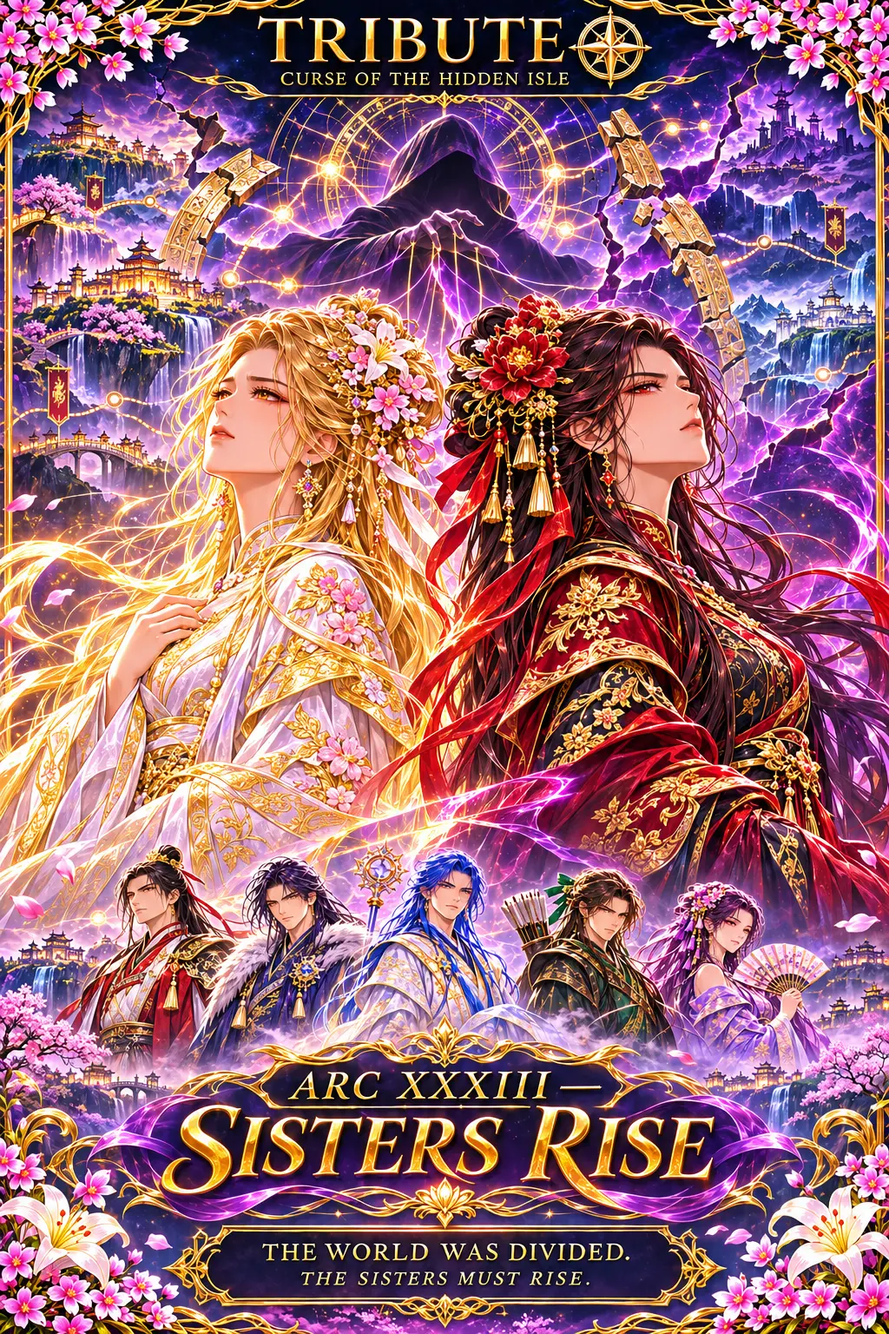
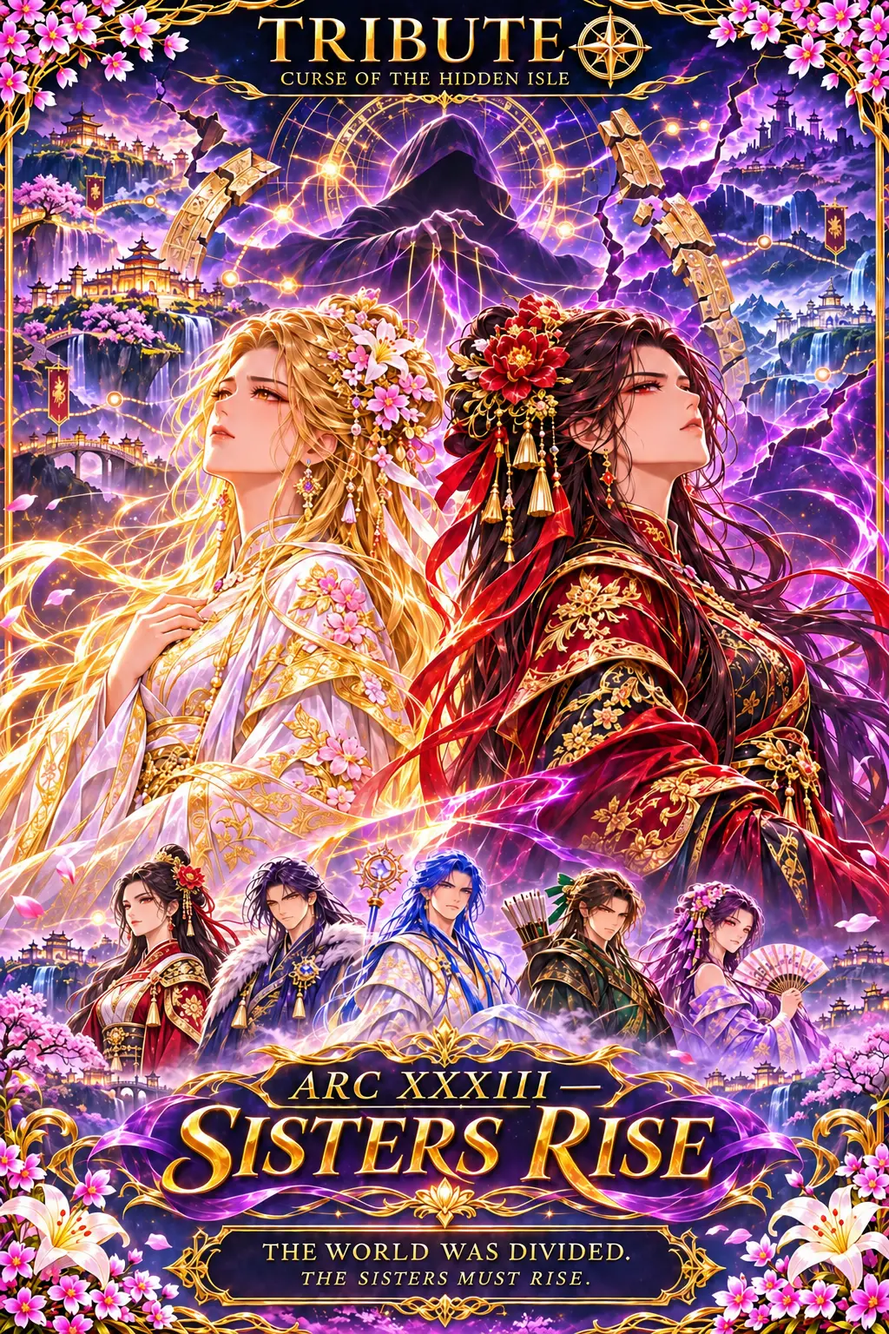
Replace the Arc XXXIII cover; note Dima and Xima's appearance rule
Claude-Session: https://claude.ai/code/session_01JgCx3Matg4MVjEr67ncDB4

Changed region(s): [[0.0, 0.0, 1.0, 1.0]]

diff --git a/sw.js b/sw.js
@@ -1,5 +1,5 @@
 /* Tribute service worker: app shell is cached for offline play; images and other assets are cached as you play. */
-const VERSION = 'tribute-v255';
+const VERSION = 'tribute-v256';
 const SHELL = ['./', './index.html', './styles.css', './manifest.webmanifest',
   './scripts/chapters.js','./scripts/characters.js','./scripts/skilltree.js','./scripts/core.js','./scripts/enemies.js','./scripts/battle.js','./scripts/autobattle.js',
   './scripts/journal.js','./scripts/world.js','./scripts/world-ui.js','./scripts/maps.js','./scripts/voyage.js','./scripts/family.js','./scripts/raid.js','./scripts/network.js','./scripts/evils.js','./scripts/relations.js','./scripts/relroute.js','./scripts/aster.js','./scripts/arc20guests.js','./scripts/arc20allies.js','./scripts/mirelle.js','./scripts/maskstatus.js','./scripts/winter.js','./scripts/silentflame.js','./scripts/skyeater.js','./scripts/ashenserpent.js','./scripts/altancourt.js','./scripts/yaleclinic.js','./scripts/yalequests.js','./scripts/pursuits.js','./scripts/frontierwork.js','./scripts/custodian.js','./scripts/weepingstone.js','./scripts/sunlesschild.js','./scripts/mirrorqueen.js','./scripts/lastspasm.js','./scripts/silentskills.js','./scripts/frontnet.js','./scripts/frontiertrust.js','./scripts/restoration.js','./scripts/delilah.js','./scripts/allypanels.js','./scripts/sera.js','./scripts/convoys.js','./scripts/threads.js','./scripts/regard.js','./scripts/whispers.js','./scripts/chronicle.js','./scripts/salary.js','./scripts/apprentice.js','./scripts/banter.js','./scripts/corruption.js','./scripts/explore.js','./scripts/arcs.js','./scripts/base.js','./scripts/skirmish.js','./scripts/items.js','./scripts/gear.js','./scripts/loot.js','./scripts/gates.js','./scripts/standing.js','./scripts/overheard.js','./scripts/deeds.js','./scripts/estates.js','./scripts/archive.js','./scripts/sunken.js','./scripts/passages.js','./scripts/codex.js','./scripts/growth.js','./scripts/echoes.js','./scripts/vows.js','./scripts/outfits.js','./scripts/royals.js','./scripts/arc9.js','./scripts/residents.js','./scripts/routes.js','./scripts/timed.js','./scripts/ways.js','./scripts/repute.js','./scripts/regmarks.js','./scripts/altan.js','./scripts/veyne.js','./scripts/horizons.js','./scripts/roc.js','./scripts/rewards.js','./scripts/tracker.js',

diff --git a/docs/ENDGAME_ROADMAP_RECEIVED.md b/docs/ENDGAME_ROADMAP_RECEIVED.md
@@ -44,3 +44,6 @@ After the crossover chapters (to 990) comes the sequel, **Crimson Horizon**: Jad
 - **Page titles that were garbled:** 940's banner reads "The Ones of Stayed"; the previous page's "to be continued" names it **A Shared Purpose**, which is the title used. Other garbled words (author: "reserve the garbled text for editing later") were built as their sensible reading; the pages keep the garbling until regenerated.
 - Pages place the party at Dragonvale Harbour and call Jade "Princess Jade"; speakers in a few panels are unlabelled (the built text attributes them only where the page makes it clear).
 - Roadmap check: 934-936 roadmap "The Ship From Another World" is split over 935-937 on the pages; 937-939 Guardians over 938-939; 940-942 Canon Five matches. Page numbers win. The numbers are now one ahead of the roadmap (the 918 insert).
+
+## Dima and Xima: appearance (author)
+Dima and Xima have no fixed appearance: as goddesses they take random forms across the series. The only consistent rule is colour: **one is golden/yellow (Dima) and the other dark (Xima)**. The Arc XXXIII cover (`arc33.webp`) was regenerated with the corrected figures.
